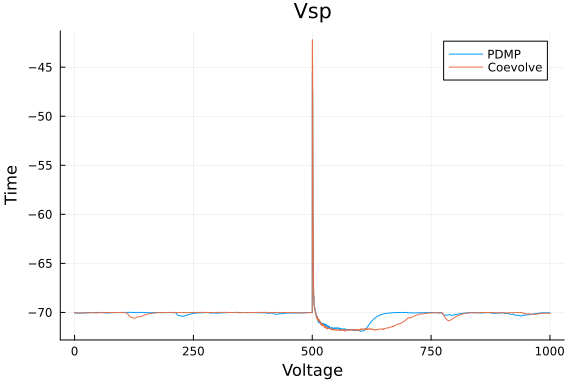
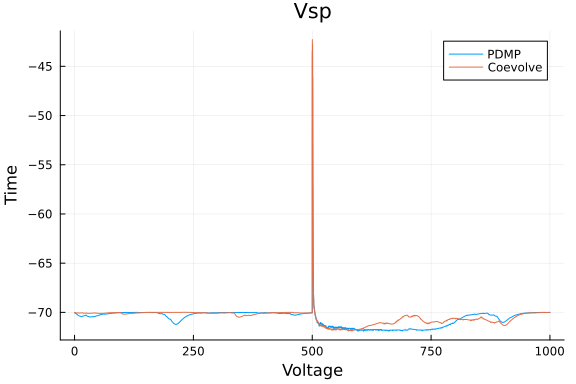
Automatic build\nPublished by build of: https://github.com/SciML/SciMLBenchmarks.jl/commit/b48eed695a2bf42935ddca755c40e30a67e2881d

diff --git a/markdown/HybridJumps/Synapse.md b/markdown/HybridJumps/Synapse.md
@@ -12,10 +12,7 @@ const fmt = :png
 ```
 
 ```
-Error: Failed to precompile PiecewiseDeterministicMarkovProcesses [86206cdf
--4603-54e0-bd58-22a2dcbf57aa] to "/cache/julia-buildkite-plugin/depots/5b30
-0254-1738-4989-ae0a-f4d2d937f953/compiled/v1.10/PiecewiseDeterministicMarko
-vProcesses/jl_jbGKkl".
+:png
 ```
 
 
@@ -65,9 +62,7 @@ end
 ```
 
 ```
-Error: LoadError: UndefVarError: `@with_kw` not defined
-in expression starting at /cache/build/exclusive-amdci3-0/julialang/scimlbe
-nchmarks-dot-jl/benchmarks/HybridJumps/Synapse.jmd:3
+Main.var"##WeaveSandBox#225".PreSynapseParams
 ```
 
 
@@ -585,9 +580,7 @@ end
 ```
 
 ```
-Error: LoadError: UndefVarError: `@with_kw` not defined
-in expression starting at /cache/build/exclusive-amdci3-0/julialang/scimlbe
-nchmarks-dot-jl/benchmarks/HybridJumps/Synapse.jmd:3
+Main.var"##WeaveSandBox#225".SynapseParams
 ```
 
 
@@ -759,9 +752,7 @@ GABA_matrix() = get_stoichmatrix(gaba_destexhe)
 ```
 
 ```
-Error: LoadError: UndefVarError: `@reaction_network` not defined
-in expression starting at /cache/build/exclusive-amdci3-0/julialang/scimlbe
-nchmarks-dot-jl/benchmarks/HybridJumps/Synapse.jmd:3
+GABA_matrix (generic function with 1 method)
 ```
 
 
@@ -807,11 +798,6 @@ const events_bap = events_sorted_times[is_pre_or_post_event.==false];
 const bap_by_epsp = Float64[];
 const nu = buildTransitionMatrix();
 ```
-
-```
-Error: UndefVarError: `SynapseParams` not defined
-```
-
 
 
 
@@ -1004,9 +990,7 @@ end
 ```
 
 ```
-Error: LoadError: UndefVarError: `@unpack_SynapseParams` not defined
-in expression starting at /cache/build/exclusive-amdci3-0/julialang/scimlbe
-nchmarks-dot-jl/benchmarks/HybridJumps/Synapse.jmd:4
+initial_conditions_discrete (generic function with 1 method)
 ```
 
 
@@ -1015,11 +999,6 @@ nchmarks-dot-jl/benchmarks/HybridJumps/Synapse.jmd:4
 const xc0 = initial_conditions_continuous_temp(p_synapse);
 const xd0 = initial_conditions_discrete(p_synapse);
 ```
-
-```
-Error: UndefVarError: `initial_conditions_continuous_temp` not defined
-```
-
 
 
 
@@ -1082,9 +1061,7 @@ end
 ```
 
 ```
-Error: LoadError: UndefVarError: `@unpack_SynapseParams` not defined
-in expression starting at /cache/build/exclusive-amdci3-0/julialang/scimlbe
-nchmarks-dot-jl/benchmarks/HybridJumps/Synapse.jmd:17
+B (generic function with 1 method)
 ```
 
 
@@ -1383,9 +1360,7 @@ end
 ```
 
 ```
-Error: LoadError: UndefVarError: `@unpack_SynapseParams` not defined
-in expression starting at /cache/build/exclusive-amdci3-0/julialang/scimlbe
-nchmarks-dot-jl/benchmarks/HybridJumps/Synapse.jmd:4
+F_synapse (generic function with 1 method)
 ```
 
 
@@ -1627,9 +1602,7 @@ end
 ```
 
 ```
-Error: LoadError: UndefVarError: `@unpack_SynapseParams` not defined
-in expression starting at /cache/build/exclusive-amdci3-0/julialang/scimlbe
-nchmarks-dot-jl/benchmarks/HybridJumps/Synapse.jmd:5
+R_synapse (generic function with 2 methods)
 ```
 
 
@@ -2045,9 +2018,7 @@ end
 ```
 
 ```
-Error: LoadError: UndefVarError: `@unpack_SynapseParams` not defined
-in expression starting at /cache/build/exclusive-amdci3-0/julialang/scimlbe
-nchmarks-dot-jl/benchmarks/HybridJumps/Synapse.jmd:66
+J_synapse (generic function with 1 method)
 ```
 
 
@@ -2109,7 +2080,7 @@ end
 ```
 
 ```
-Error: UndefVarError: `CHV` not defined
+SynapseProblem (generic function with 2 methods)
 ```
 
 
@@ -2320,7 +2291,7 @@ end
 ```
 
 ```
-SynapseProblem (generic function with 1 method)
+SynapseProblem (generic function with 3 methods)
 ```
 
 
@@ -2564,7 +2535,7 @@ end
 ```
 
 ```
-Error: UndefVarError: `SynapseParams` not defined
+formatSynapseResult (generic function with 1 method)
 ```
 
 
@@ -2592,11 +2563,6 @@ const algorithms = (
     ),
 );
 ```
-
-```
-Error: UndefVarError: `Rosenbrock23` not defined
-```
-
 
 
 
@@ -2628,11 +2594,6 @@ for algo in algorithms
 end
 ```
 
-```
-Error: UndefVarError: `algorithms` not defined
-```
-
-
 
 ```julia
 fig = plot(xlabel = "Voltage", ylabel = "Time");
@@ -2643,11 +2604,7 @@ end
 title!("Vsp")
 ```
 
-```
-Error: UndefVarError: `plot` not defined
-```
-
-
+![](figures/Synapse_22_1.png)
 
 ```julia
 fig = plot(xlabel = "N", ylabel = "Time");
@@ -2659,7 +2616,8 @@ title!("2line-Go, AMPA")
 ```
 
 ```
-Error: UndefVarError: `plot` not defined
+Error: BoundsError: attempt to access 10004-element Vector{Float64} at inde
+x [1:22761]
 ```
 
 
@@ -2698,11 +2656,6 @@ for algo in algorithms
 end
 ```
 
-```
-Error: UndefVarError: `BenchmarkTools` not defined
-```
-
-
 
 ```julia
 labels = [a.label for a in algorithms]
@@ -2713,11 +2666,7 @@ bar(labels, relmedtimes, markeralpha=0, series_annotation=medtimes, fmt=fmt)
 title!("evolveSynapse (Median time)")
 ```
 
-```
-Error: UndefVarError: `algorithms` not defined
-```
-
-
+![](figures/Synapse_25_1.png)
 
 ```julia
 medmem = [text(string(round(median(b).memory/1e6, digits=3),"Mb"), :center, 12) for b in bs]
@@ -2727,11 +2676,7 @@ bar(labels, relmedmem, markeralpha=0, series_annotation=medmem, fmt=fmt)
 title!("evolveSynapse (Median memory)")
 ```
 
-```
-Error: UndefVarError: `bs` not defined
-```
-
-
+![](figures/Synapse_26_1.png)
 
 
 
